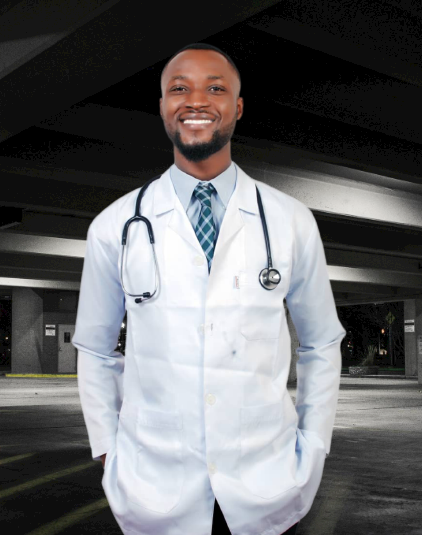
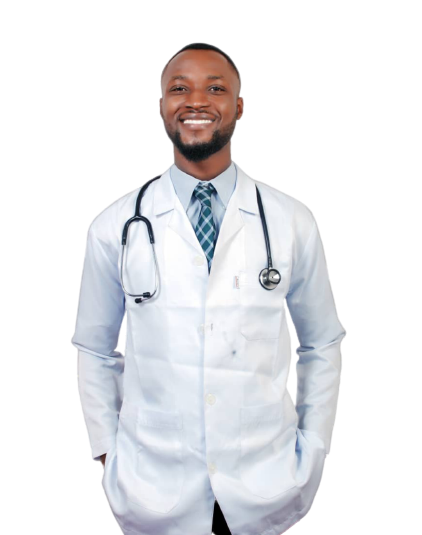
more styling corrections on about page

diff --git a/about.html b/about.html
@@ -124,51 +124,34 @@
             <div class="sm-dash bg-red"></div>
             <div class="profile-cards">
     
-                <div class="card card-1">
-                    <img
-                        src="./img/oj.jpg" alt="Mr. Joseph Ojighoro"width="300px" height="400px">
+                <div class="founder-card">
+                    <div class="card card-1">
+                        <img
+                            src="./img/oj.png" alt="Mr. Joseph Ojighoro"width="300px" height="400px">
+                    </div>
                     <div class="card-details">
                         <h3 class="card-details-title">Joseph Ojighoro</h3>
-                        <p>Founder/Chief Executive Officer</p>
-                        <div class="card-details-social">
-                            <ul>
-                                <li><a href="#"><img src="./img/twitter.svg" alt="twitter"></a></li>
-                                <li><a href="#"><img src="./img/instagram.svg" alt="instagram"></a></li>
-                                <li><a href="#"><img src="./img/linkedin.svg" alt="linkedin"></a></li>
-                            </ul>
-                        </div> 
-                    </div> 
+                        <p class="text-center">Founder/Chief Executive Officer</p>
+                    </div>
                 </div>
     
-                <div class="card card-2">   
-                    <img
-                        src="./img/Mondae.jpeg" alt="Mr. Mondae Atughonu" width="300px" height="400px">  
-                    <div class="card-details">   
-                        <h3 class="card-details-title">Mondae Atughonu</h3>  
-                        <p>Co-founder/Chief Technology Officer</p>  
-                        <div class="card-details-social">    
-                            <ul>
-                                <li><a href="#"><img src="./img/twitter.svg" alt="twitter"></a></li>
-                                <li><a href="#"><img src="./img/instagram.svg" alt="instagram"></a></li>
-                                <li><a href="#"><img src="./img/linkedin.svg" alt="linkedin"></a></li>
-                            </ul>  
-                        </div>   
-                    </div>    
+                <div class="founder-card">
+                    <div class="card card-2">
+                        <img src="./img/Mondae.png" alt="Mr. Mondae Atughonu" width="300px" height="400px">
+                    </div>
+                    <div class="card-details">
+                        <h3 class="card-details-title">Mondae Atughonu</h3>
+                        <p class="text-center">Co-founder/Chief Technology Officer</p>
+                    </div>
                 </div>
-    
-                <div class="card card-3"> 
-                    <img
-                        src="./img/chiawa.png" alt="Dr. Chiawa Theodore Ikenna" width="300px" height="400px">
+
+                <div class="founder-card">
+                    <div class="card card-2">
+                        <img src="./img/chiawa.png" alt="Dr. Chiawa Theodore Ikenna" width="300px" height="400px">
+                    </div>
                     <div class="card-details">
                         <h3 class="card-details-title">Dr. Chiawa Theodore Ikenna</h3>
-                        <p>Co-founder/Chief Medical Officer</p>
-                        <div class="card-details-social">
-                            <ul>
-                                <li><a href="#"><img src="./img/twitter.svg" alt="twitter"></a></li>
-                                <li><a href="#"><img src="./img/instagram.svg" alt="instagram"></a></li>
-                                <li><a href="#"><img src="./img/linkedin.svg" alt="linkedin"></a></li>
-                            </ul>
-                        </div>
+                        <p class="text-center">Co-founder/Chief Medical Officer</p>
                     </div>
                 </div>
 
@@ -186,7 +169,7 @@
                     <div class="swiper-slide">
                         <div class="member-info">
                             <div class="member-photo">
-                                <img src="./img/goodness.png" width="300px" height="400px" alt="meet our team member">
+                                <img src="./img/goodness.png" width="300px" height="300px" alt="meet our team member">
                                 <div class="member-social">
                                     <a class="social-bg bg-twitter" title="twitter">
                                         <i class="fa-brands fa-twitter"></i>
@@ -206,7 +189,7 @@
                     <div class="swiper-slide">
                         <div class="member-info">
                             <div class="member-photo">
-                                <img src="./img/amaku.png" width="300px" height="400px" alt="meet our team member">
+                                <img src="./img/amaku.png" width="300px" height="300px" alt="meet our team member">
                                 <div class="member-social">
                                     <a class="social-bg bg-twitter" title="twitter">
                                         <i class="fa-brands fa-twitter"></i>
@@ -226,7 +209,7 @@
                     <div class="swiper-slide">
                         <div class="member-info">
                             <div class="member-photo">
-                                <img src="./img/efiri.jpg" width="300px" height="400px" alt="meet our team member">
+                                <img src="./img/efiri.png" width="300px" height="300px" alt="meet our team member">
                                 <div class="member-social">
                                     <a class="social-bg bg-twitter" title="twitter">
                                         <i class="fa-brands fa-twitter"></i>
@@ -246,7 +229,7 @@
                     <div class="swiper-slide">
                         <div class="member-info">
                             <div class="member-photo">
-                                <img src="./img/afia.jpg" width="300px" height="400px" alt="meet our team member">
+                                <img src="./img/afia.png" width="300px" height="300px" alt="meet our team member">
                                 <div class="member-social">
                                     <a class="social-bg bg-twitter" title="twitter">
                                         <i class="fa-brands fa-twitter"></i>
@@ -266,7 +249,7 @@
                     <div class="swiper-slide">
                         <div class="member-info">
                             <div class="member-photo">
-                                <img src="./img/godwin.jpg" width="300px" height="400px" alt="meet our team member">
+                                <img src="./img/godwin.png" width="300px" height="300px" alt="meet our team member">
                                 <div class="member-social">
                                     <a class="social-bg bg-twitter" title="twitter">
                                         <i class="fa-brands fa-twitter"></i>
@@ -286,7 +269,7 @@
                     <div class="swiper-slide">    
                         <div class="member-info">
                             <div class="member-photo">
-                                <img src="./img/mmesoma.jpg" width="300px" height="400px" alt="meet our team member">
+                                <img src="./img/mmesoma.png" width="300px" height="300px" alt="meet our team member">
                                 <div class="member-social">
                                     <a class="social-bg bg-twitter" title="twitter">
                                         <i class="fa-brands fa-twitter"></i>
@@ -304,8 +287,8 @@
                         </div>
                     </div>
                 </div>
+                <div class="swiper-pagination"></div>
             </div>
-            <div class="swiper-pagination"></div>
         </div>
     </section>
     <!-- End Team -->

diff --git a/css/style.css b/css/style.css
@@ -1418,13 +1418,14 @@
       flex-wrap: wrap;
       gap: 50px;
       margin: 30px;
-      color: black;
     }
 
     .profile-cards .card {
       width: 300px;
-      height: 400px;
+      height: 300px;
+      border-radius: 50%;
       position: relative;
+      background-color: rgba(225, 0, 0, 0.1);
       box-shadow: 0 0 10px rgba(0, 0, 0, 0.3);
       overflow: hidden;
     }
@@ -1435,7 +1436,7 @@
     }
 
     .profile-cards .card:hover > img {
-      filter: blur(3px);
+      /* filter: blur(3px); */
       transform: scale(1.2);
     }
 
@@ -1443,6 +1444,7 @@
       width: 100%;
       height: 100%;
       object-fit: cover;
+      object-position: top;
       transition: all 0.3s;
     }
 
@@ -1458,12 +1460,13 @@
       bottom: 0;
       left: 0;
       background-color: white;
-      transform: translateY(100%);
+      /* transform: translateY(100%); */
       transition: all 0.3s;
     }
 
-    .profile-cards .card .card-details-title {
+    .card-details-title {
       font-size: 18px;
+      text-align: center;
     }
 
     .profile-cards .card .card-details-social {
@@ -1539,22 +1542,28 @@
 
     .member-photo {
       width: 300px;
-      height: 400px;
+      height: 300px;
       position: relative;
+      border-radius: 50%;
+      overflow: hidden;
+      background-color: rgba(225, 0, 0, 0.1);
+      transition: all 0.4s ease-in;
+      box-shadow: 0 0 10px rgba(0, 0, 0, 0.3);
+    }
+
+    .member-photo:hover > img {
+      filter: grayscale(60%);
     }
 
     .member-photo > img {
       width: 100%;
       height: 100%;
+      height: auto;
+      transition: all 0.4s ease-in;
       object-fit: cover;
     }
 
-    .member-photo:hover > .member-social {
-      display: flex;
-    }
-
     .member-social {
-      display: flex;
       align-items: center;
       justify-content: center;
       position: absolute;
@@ -1607,7 +1616,16 @@
     }
 
     .swiper-pagination {
-      margin-top: 50px;
+      bottom: 50px !important;
+    }
+
+    .swiper-pagination-bullet-active {
+      background: #f00 !important;
+      opacity: 1;
+    }
+
+    .swiper-pagination-bullet {
+      background: rgba(255, 0, 0) !important;
     }
 
   /********************************************/
